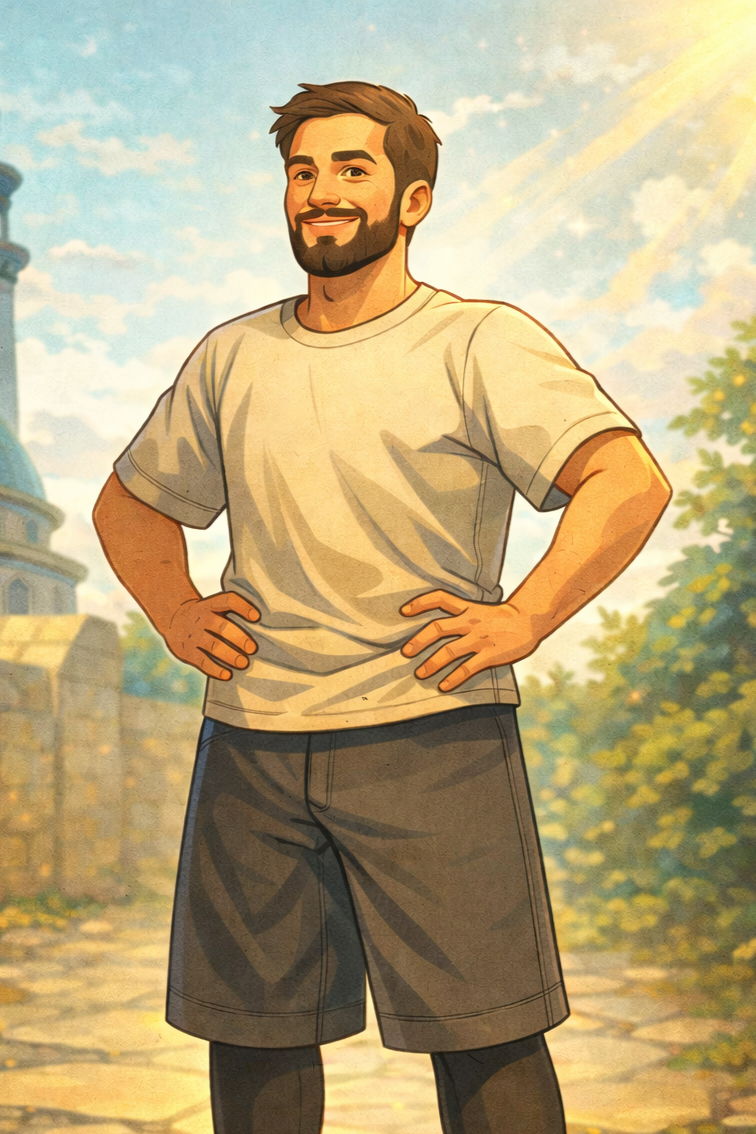
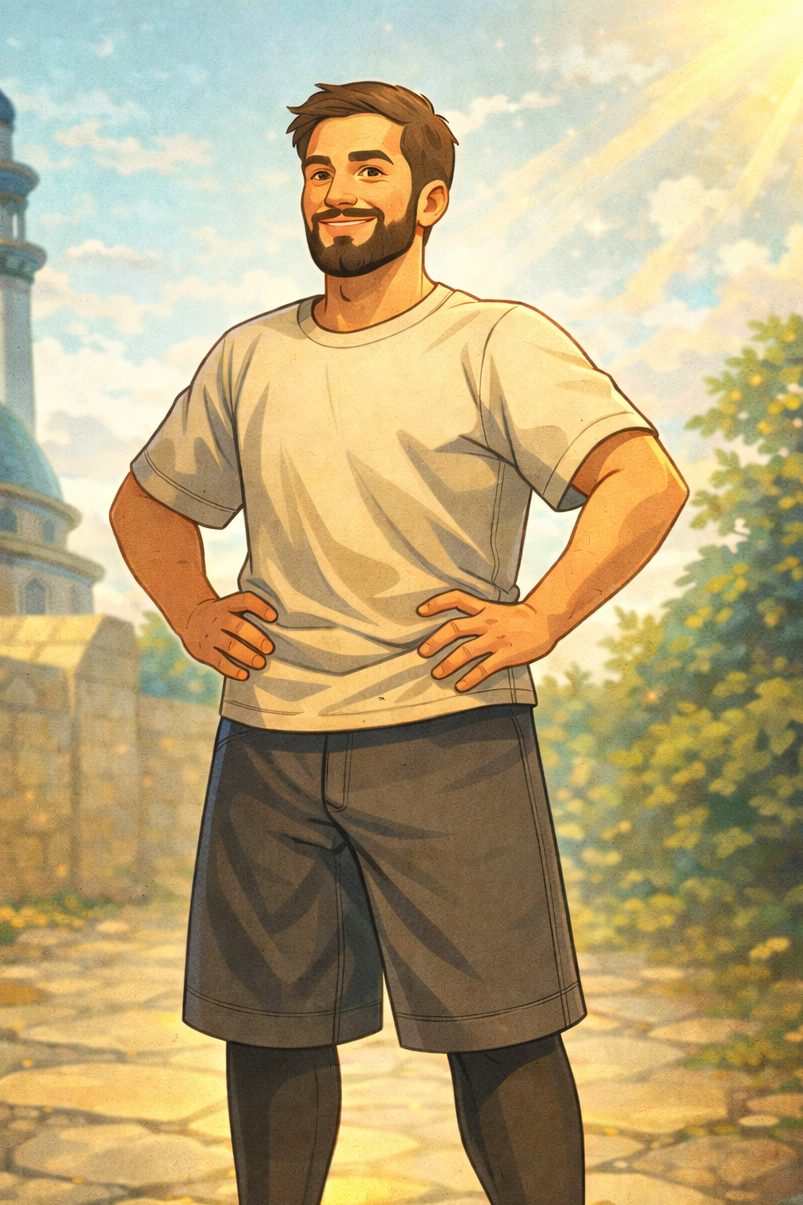
feat : trait 2 faith, fix : discovery issues

diff --git a/Bouchtaria2/Assets/Scripts/Combat/GameManager.cs b/Bouchtaria2/Assets/Scripts/Combat/GameManager.cs
@@ -255,6 +255,15 @@ public class GameManager : MonoBehaviour
         display.Progression = progress;
         display.ShowProgress(progress, currentCap);
     }
+    public bool OwnerHasTrait(PlayerOwner owner, CardData.Trait trait, int minTier = 1)
+    {
+        TraitSystem system =
+            owner == PlayerOwner.Player
+                ? allyTraitSystem
+                : enemyTraitSystem;
+
+        return system.HasTraitAtTier(trait, minTier);
+    }
 
     private void OnAllyTraitActivated(CardData.Trait trait, int tier)
     {
@@ -443,6 +452,14 @@ public class GameManager : MonoBehaviour
     {
         if(owner == PlayerOwner.Enemy)
         {
+            if (OwnerHasTrait(owner, CardData.Trait.Faith, 2))
+            {
+                int randintDisc = Random.Range(0, 3);
+                if (randintDisc == 0) AddCardToHand(PlayerOwner.Enemy, id1,-1);
+                if (randintDisc == 1) AddCardToHand(PlayerOwner.Enemy, id2,-1);
+                if (randintDisc == 2) AddCardToHand(PlayerOwner.Enemy, id3,-1);
+                return;
+            }
             int randint = Random.Range(0, 3);
             if (randint == 0) AddCardToHand(PlayerOwner.Enemy, id1);
             if (randint == 1) AddCardToHand(PlayerOwner.Enemy, id2);
@@ -479,6 +496,11 @@ public class GameManager : MonoBehaviour
         if (options.Count <= 0) return;
         if (owner == PlayerOwner.Enemy)
         {
+            if(OwnerHasTrait(owner, CardData.Trait.Faith, 2))
+            {
+                AddCardToHand(PlayerOwner.Enemy, options[Random.Range(0, options.Count)].id,-1);
+                return;
+            }
             AddCardToHand(PlayerOwner.Enemy, options[Random.Range(0, options.Count)].id);
             return;
         }
@@ -504,7 +526,9 @@ public class GameManager : MonoBehaviour
     }
     public void DiscoverTrait(string trait, PlayerOwner owner)
     {
-        List<CardData> options = CardDatabase.Instance.GetCardsByTraitPackable(trait);
+        List<CardData> options =
+       new List<CardData>(CardDatabase.Instance.GetCardsByTraitPackable(trait));
+
         string res = "options :";
         foreach (CardData option in options)
         {
@@ -513,6 +537,11 @@ public class GameManager : MonoBehaviour
         if (options.Count <= 0) return;
         if (owner == PlayerOwner.Enemy)
         {
+            if (OwnerHasTrait(owner, CardData.Trait.Faith, 2))
+            {
+                AddCardToHand(PlayerOwner.Enemy, options[Random.Range(0, options.Count)].id, -1);
+                return;
+            }
             AddCardToHand(PlayerOwner.Enemy, options[Random.Range(0, options.Count)].id);
             return;
         }
@@ -554,6 +583,30 @@ public class GameManager : MonoBehaviour
             CardFactory.Instance.CreateCard(data, owner);
 
         card.SetZone(CardZone.Hand);
+        hand.AddCard(card.gameObject);
+        hand.UpdateCardPositions();
+
+        return card;
+    }
+    public CardInstance AddCardToHand(PlayerOwner owner, int id, int discount)
+    {
+        HandManager hand = owner == PlayerOwner.Player
+            ? allyHand
+            : enemyHand;
+
+        if (hand.handCards.Count >= hand.maxHandSize)
+        {
+            Debug.Log($"{owner} hand is full.");
+            return null;
+        }
+
+        CardData data = CardDatabase.Instance.GetCardById(id);
+
+        CardInstance card =
+            CardFactory.Instance.CreateCard(data, owner);
+
+        card.SetZone(CardZone.Hand);
+        card.AddTemporaryManaModifier(discount);
         hand.AddCard(card.gameObject);
         hand.UpdateCardPositions();
 

diff --git a/Bouchtaria2/Assets/Scripts/Combat/TraitSystem.cs b/Bouchtaria2/Assets/Scripts/Combat/TraitSystem.cs
@@ -42,6 +42,15 @@ public class TraitSystem : MonoBehaviour
 
         OnTraitTierActivated?.Invoke(effect.Trait, effect.Tier);
     }
+    public bool HasTraitAtTier(CardData.Trait trait, int minTier)
+    {
+        foreach (var effect in activeEffects)
+        {
+            if (effect.Trait == trait && effect.Tier >= minTier)
+                return true;
+        }
+        return false;
+    }
 
     public void ClearAll()
     {
@@ -1110,7 +1119,7 @@ public class FaithProgression : ITraitProgression
     private void UnlockTier2()
     {
         CurrentTier = 2;
-        //traitSystem.ActivateEffect(new FaithTier2Effect(Owner));
+        traitSystem.ActivateEffect(new FaithTier2Effect(Owner));
     }
     private int GetCurrentCap()
     {
@@ -1146,6 +1155,26 @@ public class FaithTier1Effect : IDeckTraitEffect
         gm.AddCardToHand(owner, 64);
         gm.AddCardToHand(owner, 60);
         used = true;
+    }
+
+    public void OnUnregister() { }
+
+}
+public class FaithTier2Effect : IDeckTraitEffect
+{
+    public CardData.Trait Trait => CardData.Trait.Faith;
+    public int Tier => 2;
+
+    private readonly PlayerOwner owner;
+
+    public FaithTier2Effect(PlayerOwner owner)
+    {
+        this.owner = owner;
+    }
+
+    public void OnRegister()
+    {
+        //No visible effect since it discounts discoveries
     }
 
     public void OnUnregister() { }

diff --git a/Bouchtaria2/Assets/Scripts/Card_Logic/Card.cs b/Bouchtaria2/Assets/Scripts/Card_Logic/Card.cs
@@ -39,17 +39,23 @@ public class Card : MonoBehaviour
     {
         if(SceneManager.GetActiveScene().name == "Combat")
         {
-            if (gameManager.isDiscovering)
+            if (gameManager.isDiscovering && thisInstance.IsDisplay)
             {
-                if (thisInstance.IsDisplay)
-                {
-                    Debug.Log($"Discovered {thisInstance.Data.name}");
+                gameManager.isDiscovering = false; // lock FIRST
+
+                if (gameManager.OwnerHasTrait(thisInstance.Owner, CardData.Trait.Faith, 2))
+                    gameManager.AddCardToHand(thisInstance.Owner, thisInstance.Data.id, -1);
+                else
                     gameManager.AddCardToHand(thisInstance.Owner, thisInstance.Data.id);
-                    gameManager.isDiscovering = false;
-                    gameManager.discoverDisplay.SetActive(false);
-                }
+
+                // Destroy all discover cards
+                foreach (Transform child in gameManager.discoverDisplay.transform)
+                    Destroy(child.gameObject);
+
+                gameManager.discoverDisplay.SetActive(false);
                 return;
             }
+
             if (thisInstance.CurrentZone == CardZone.Hand)
             {
                 isDragging = true;
